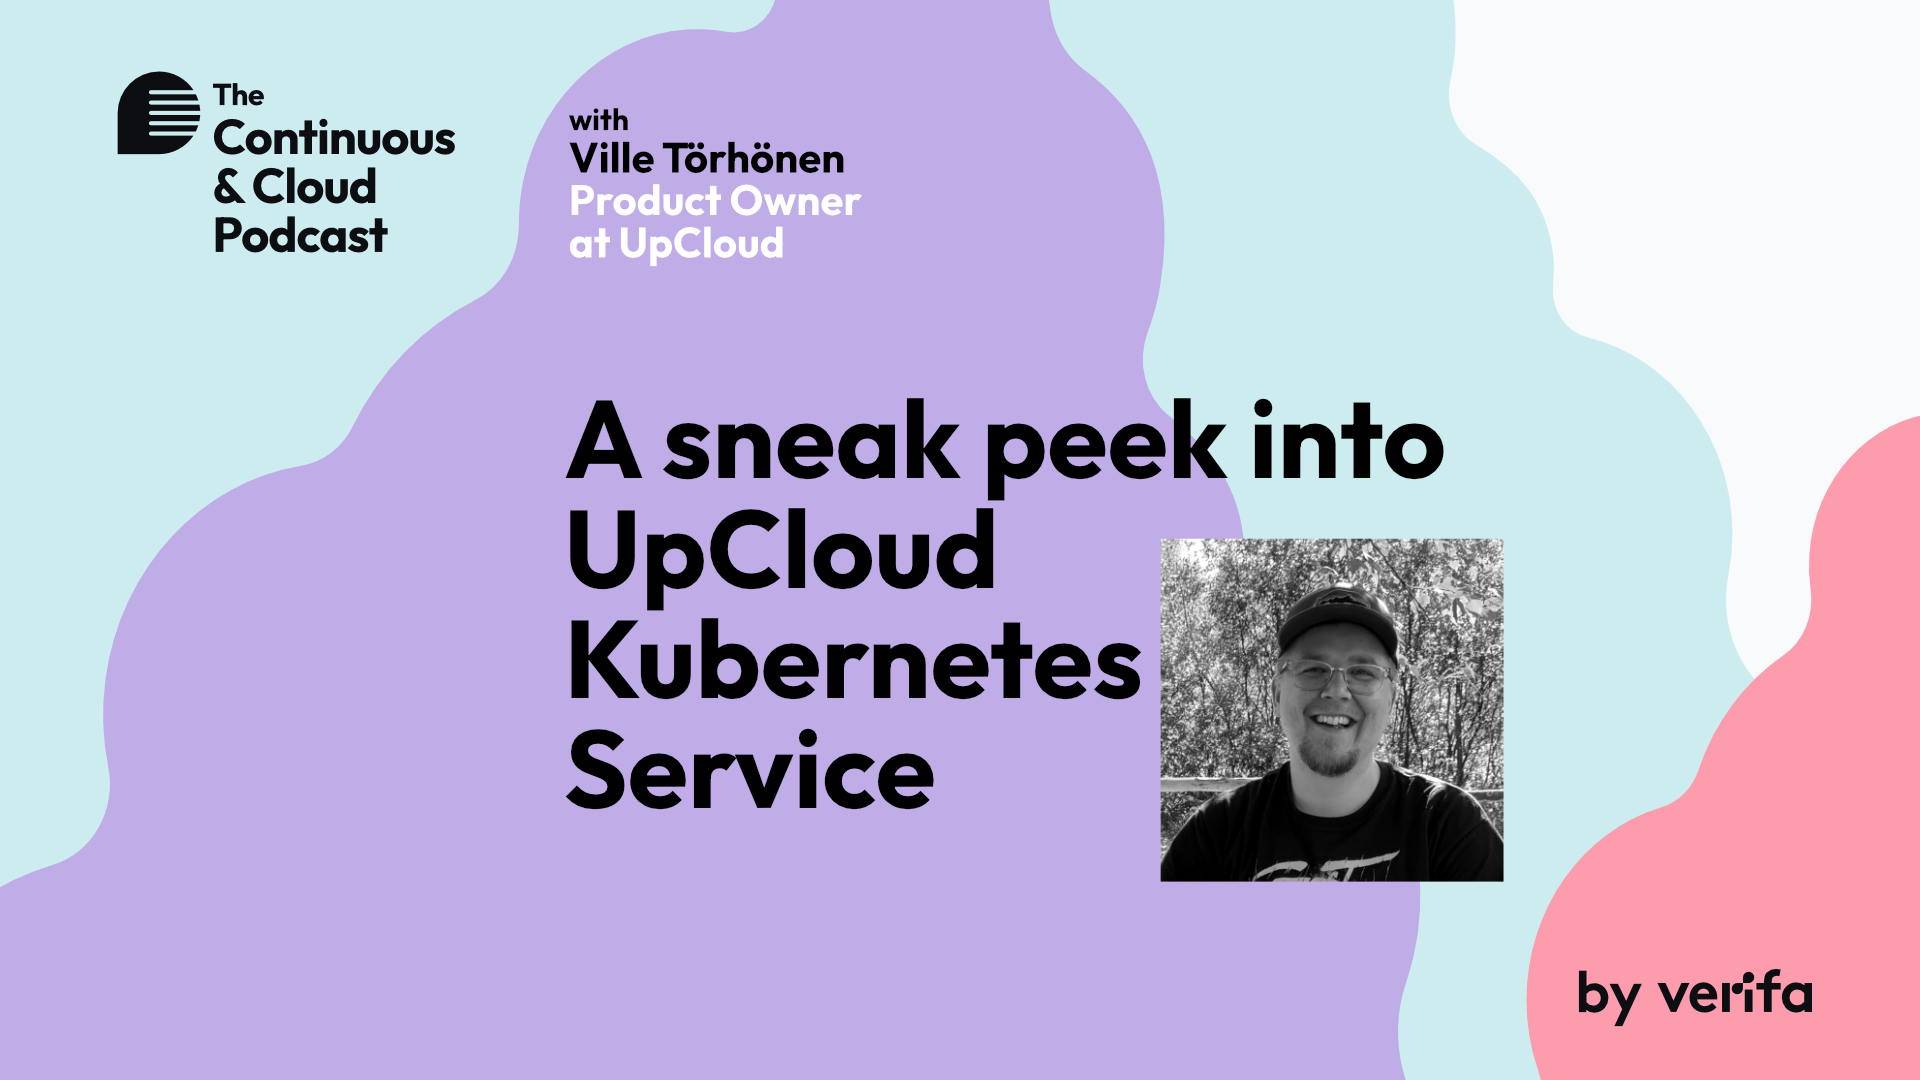
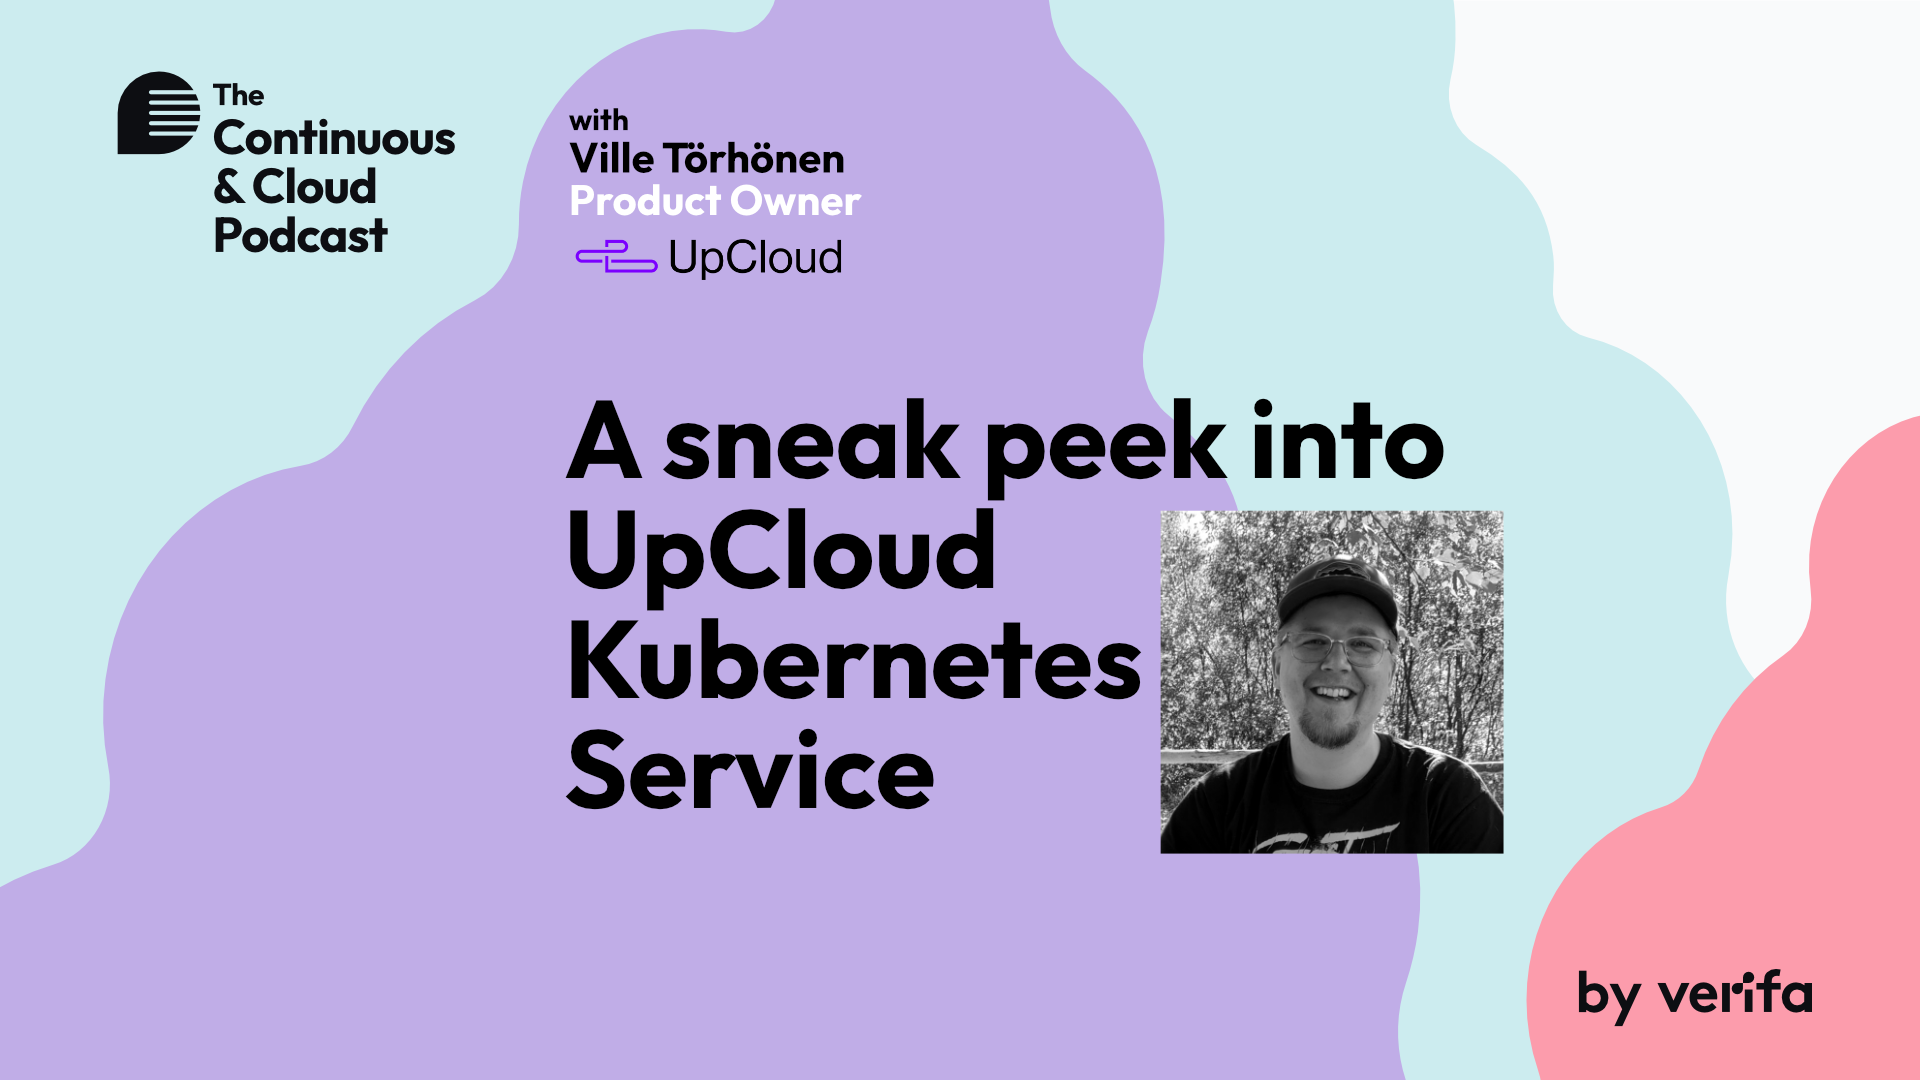
changes to podcast ep04
add UpCloud tag
remove ** ** from headers
change podcast image

Changed region(s): [[0.5938, 0.4583, 0.7812, 0.825], [0.2812, 0.2139, 0.4375, 0.275]]

diff --git a/src/posts/podcast-ep04-a-sneak-peek-into-upcloud-kubernetes-service.md b/src/posts/podcast-ep04-a-sneak-peek-into-upcloud-kubernetes-service.md
@@ -8,6 +8,7 @@ authors:
 tags:
 - Kubernetes
 - Cloud
+- UpCloud
 date: 2022-08-16
 image: "/blogs/podcast-ep04-a-sneak-peek-into-upcloud-kubernetes-service.png"
 featured: true
@@ -30,7 +31,7 @@ jobActive: true
 
 In this episode of The Continuous & Cloud Podcast, Jacob and Lauri chat with Ville Törhönen, Product Owner at UpCloud, about UpCloud’s upcoming managed Kubernetes Service (UKS).
 
-## **During this episode we discuss**
+## During this episode we discuss
 
 - What is a managed Kubernetes service? \[00:39\]
 - What is UpCloud Kubernetes Service (UKS)? \[03:10\]
@@ -48,22 +49,22 @@ In this episode of The Continuous & Cloud Podcast, Jacob and Lauri chat with Vil
 - When will UKS be available? \[25:40\]
 - Example use case: using UKS with Terraform for IaC \[27:11\]
 
-## **Mentioned in the podcast**
+## Mentioned in the podcast
 
 [UpCloud Kubernetes Engineer vacancy](https://jobs.upcloud.com/o/kubernetes-engineer)
 
 [UpCloud CSI driver on Github](https://github.com/UpCloudLtd/upcloud-csi) 
 
 
-## **About Ville Törhönen**
+## About Ville Törhönen
 
 Ville (MSc, Tech) is working as a Product Owner at UpCloud. He is responsible for the upcoming UpCloud Kubernetes Service (UKS) product offering but also Developer Experience on the platform. Previously he’s been building various businesses and products on top of container technologies in companies like Unity, Noice and Redhill Games.
 
-## **About UpCloud**
+## About UpCloud
 
 [UpCloud](https://upcloud.com/) is a European Cloud Provider offering fast and reliable PaaS from 12 data centers around the globe. They are a strong believer in open source and openness in general. That’s why all of their services are available from [public repositories](https://github.com/UpCloudLtd). UpCloud’s mission is to make Infrastructure as Code easier for small and medium size businesses.
 
-## **Connect with today’s podcast crew on Linkedin**
+## Connect with today’s podcast crew on Linkedin
 
 [Ville Törhönen](https://www.linkedin.com/in/vtorhonen/)
 
@@ -71,9 +72,9 @@ Ville (MSc, Tech) is working as a Product Owner at UpCloud. He is responsible fo
 
 [Lauri Suomalainen](https://www.linkedin.com/in/lauri-suomalainen/)
 
-## **Transcript**
+## Transcript
 
-### **Hello and welcome!**
+### Hello and welcome!
 
 **Jacob** \[00:15\]: Welcome to the Continuous and Cloud Podcast by Verifa. I'm your host, Jacob, and my co-host today is Lauri.
 
@@ -91,7 +92,7 @@ Ville (MSc, Tech) is working as a Product Owner at UpCloud. He is responsible fo
 
 **Lauri** \[00:38\]: Yeah, let's do it.
 
-### **What is a managed Kubernetes service?**
+### What is a managed Kubernetes service?
 
 **Jacob** \[00:39\]: Cool. So UKS, the short term UpCloud Kubernetes Service is a new service coming soon from UpCloud. And let's maybe start by talking about what Kubernetes services are, or managed Kubernetes services. So maybe, Ville, you'd like to tell us what your idea of managed Kubernetes services?
 
@@ -113,7 +114,7 @@ So we've been developing it from early, well, late last year, we did some resear
 
 **Ville** \[03:09\]: Yeah.
 
-### **What is UpCloud Kubernetes Service (UKS)?**
+### What is UpCloud Kubernetes Service (UKS)?
 
 **Jacob** \[03:10\]: Yeah, so managed Kubernetes is you basically get a Kubernetes cluster and then it's managed by UpCloud, and I guess the two main components within Kubernetes cluster is the control plane and the worker nodes. So everything's in UpCloud, right?
 
@@ -137,7 +138,7 @@ We do support UI workflows for creating clusters, of course. Not everyone wants 
 
 **Ville** \[06:00\]: Giving you ideas.
 
-### **What do you get from UpCloud that supports the Kubernetes service?**
+### What do you get from UpCloud that supports the Kubernetes service?
 
 **Jacob** \[06:02\]: Exactly. Yeah. But maybe this is a good time to talk about the other things UpCloud a little bit too, because it's never just Kubernetes. You might have the cluster and now you can run your pods there, create your services, maybe deploy an ingress controller and get access to those. But then there's things like storage, for example, and well, probably running a database within Kubernetes isn't such a great idea unless you know what you're doing, and then there's maybe some fast system storage that you want as well, like persistent volumes and these sorts of things. Yeah, could you tell us what's available in UpCloud?
 
@@ -171,13 +172,13 @@ So for volumes, for example, we went ahead and implemented a container storage i
 
 **Ville** \[11:58\]: Yeah.
 
-### **Customising resources within UKS**
+### Customising resources within UKS
 
 **Jacob** \[12:00\]: Cool. And that nicely leads on to customisability as well because that's... well, we already talked a little bit about the storage classes and, well, at least persistent volumes and a little bit about the networking with load balances, but what about other customisations? One obvious thing that comes to mind is the worker nodes. So what kind of nodes do you want to have in your cluster? Are there like node groups or node sets or are they individual nodes and how... Yeah, what can you do?
 
 **Ville** \[12:28\]: Yeah, we are looking into... we are exposing the node groups as a separate API object, so you will be able to modify your workers accordingly or according to your workloads. So you might want to have separate kind of, or different kinds of nodes for running stateless workloads or some other specific requirements and then have smaller or, whatever, bigger nodes to run your other, let's say, stateful or stateless workloads. So it's configurable as you would expect from a managed Kubernetes service. So the way I see it, it's a basic requirement to make such thing work definitely.
 
-### **How has it been developing UKS?**
+### How has it been developing UKS?
 
 **Lauri** \[13:10\]: So how long had you been building the product and how many of you are in the team now?
 
@@ -227,7 +228,7 @@ But there are other good use cases for such, let's say, service mesh approaches 
 
 **Jacob** \[20:39\]: So there's definitely a benefit there.
 
-### **Observability and monitoring in UKS**
+### Observability and monitoring in UKS
 
 **Lauri** \[20:42\]: Speaking of observability, let's say I haven't had that much experience in UpCloud and monitoring and so on, so if I was to have a UKS cluster and I wanted to set up alerting and monitoring for it, what would be my first go-to then?
 
@@ -255,7 +256,7 @@ Another thing that even though we're offering just the cluster for our users or 
 
 **Ville** \[23:38\]: Sure, sure. And you also have Terraform CDK now, which is also something we support or have bindings for out of the box, so it's another cool automation built on top of the providers.
 
-### **What are the main benefits of using UpCloud and UKS?**
+### What are the main benefits of using UpCloud and UKS?
 
 **Jacob** \[23:51\]: Nice. Nice. And I have to praise UpCloud a little bit too, because having worked with the other cloud providers and the Terraform providers for them, when I work with UpCloud and I run Terraform plan or something, I think it's failed because it's like... I press plan and like, "There's the plan." And I'm like, "Okay, so something went wrong," and it's like, "Oh no, it actually planned in..." It's a matter of seconds and you get the feedback. So if your Kubernetes service is going to be on that speed as well, I think that's going to be nice. And maybe this is a perfect time to ask as well, quite a way into the podcast now, and we've gone quite deep into the discussion about UKS, but if you had to tell somebody why they should consider UKS, what would be the main points that you would-
 
@@ -265,7 +266,7 @@ Another thing that even though we're offering just the cluster for our users or 
 
 **Jacob** \[25:37\]: Great, cool.
 
-### **When will UKS be available, and what’s next?**
+### When will UKS be available, and what’s next?
 
 **Lauri** \[25:40\]: So you guys are going to release at the end of this year, hopefully, and what then? What happens after?
 
@@ -289,7 +290,7 @@ Another thing that even though we're offering just the cluster for our users or 
 
 **Ville** \[27:09\]: Yes.
 
-### **Example use case: using UKS with Terraform for IaC**
+### Example use case: using UKS with Terraform for IaC
 
 **Jacob** \[27:11\]: Is there anything that you want to talk about more, Ville, that you feel we haven't covered already?
 
@@ -379,7 +380,7 @@ I think we need to search our #random channel on Slack because every time we fin
 
 **Ville** \[41:44\]: Sounds good to me.
 
-### **Wrapping up**
+### Wrapping up
 
 **Jacob** \[41:48\]: Should we start to wrap up then?
 
